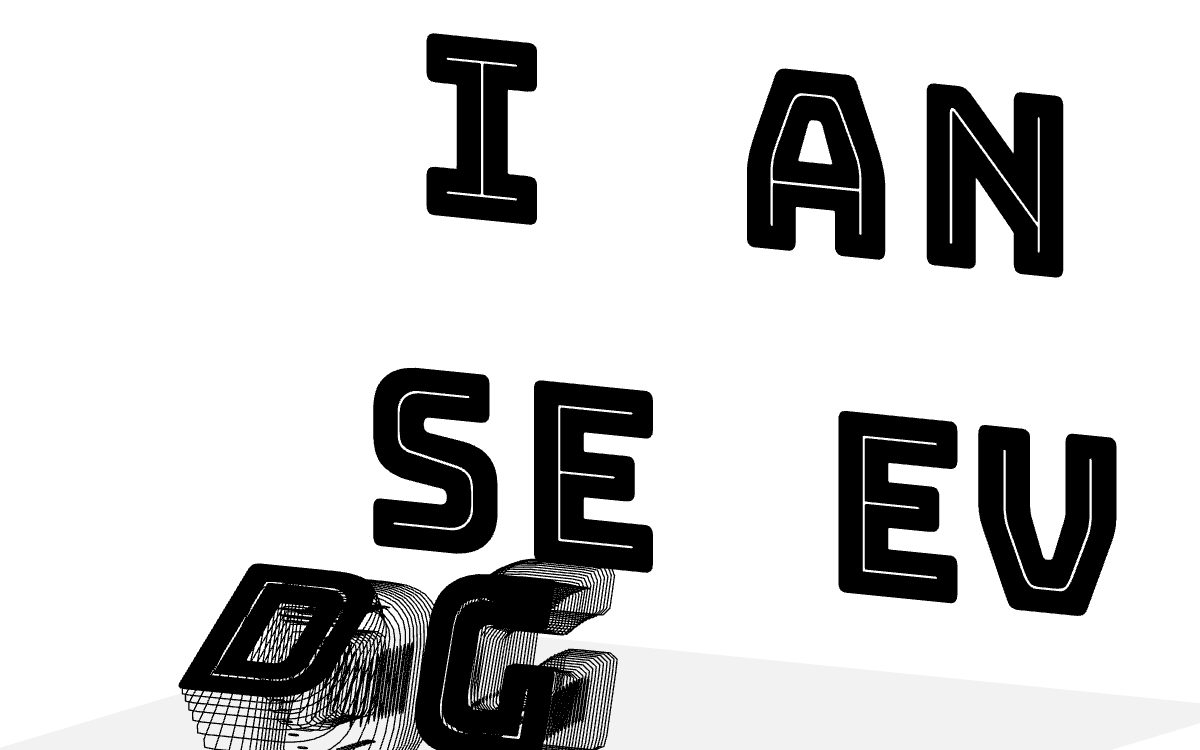
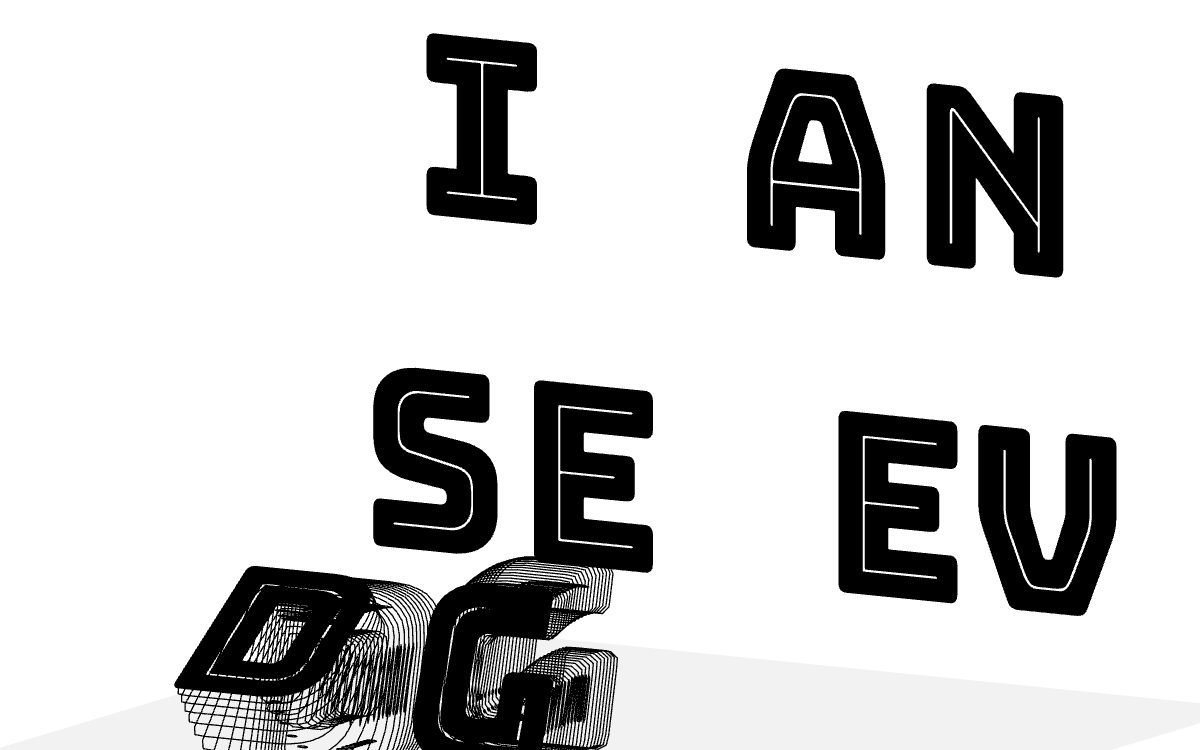
Workflow tools: Save as defaults, contact sheets, one-command ship; Slinky type fits phones

Changed region(s): [[0.1542, 0.736, 0.5242, 1.0], [0.1233, 0.8893, 0.1542, 0.92]]

diff --git a/src/posters/slinky-type.js b/src/posters/slinky-type.js
@@ -19,6 +19,8 @@ const FACE = new URLSearchParams(location.search).get('font') || 'Bungee Inline'
   try { await Promise.race([document.fonts.load(`400 100px "${FACE}"`), new Promise((r) => setTimeout(r, 2500))]); } catch (e) { /* the stand-in */ }
 }
 const FONT = `"${FACE}", Arial Black, Helvetica Neue, Helvetica, sans-serif`;
+// Defaults saved from the settings panel (Save as defaults, local dev server): src/posters/params/slinky-type.json, over the built-in ones below.
+const SAVED = await fetch(new URL('./params/slinky-type.json', import.meta.url)).then((r) => (r.ok ? r.json() : {})).catch(() => ({}));
 const shapeOf = (ch, fine) => ringShape(ch, { fine, font: FONT, weight: 400 });
 const clamp = (v, a, b) => Math.max(a, Math.min(b, v));
 const TH = -Math.PI / 2;                       // every chain runs along -z: out of the wall, toward you
@@ -33,6 +35,7 @@ export function mount(stage) {
   const shared = { ...SHARED_DEFAULTS, ...POSTER_DEFAULTS, spring: 958, gravity: 23, bounce: 0.81, inertia: 0.3 };   // Idan's tuned Slinky: the rings, the wire, the contact, gravity and friction (14 Oct 2026)
   const OWN = { coils: 20, ledge: 10, bump: 2.9, push: 9.5, pull: 1.7, pull2: 2.8 };                      // rings in a letter; how deep the ledge is; how far the first and the second bump carry the head (radii)
   const CAM = { yaw: 30, pitch: 10, zoom: 1.5, panX: 0, panY: 0 };                                    // Idan's camera (14 Oct 2026); zoom and pan are a multiplier on the fitted scene and a share of the screen
+  for (const [k, v] of Object.entries(SAVED)) { if (k in CAM) CAM[k] = v; else if (k in OWN) OWN[k] = v; else if (k in shared) shared[k] = v; }
   const DEFAULTS = { ...shared, ...OWN, ...CAM };
   const P = bindParams(shared, OWN);
   const V = createView(stage, { yaw: CAM.yaw, pitch: CAM.pitch }); V.setView('iso');
@@ -64,7 +67,7 @@ export function mount(stage) {
     for (const c of corners3()) { const q = V.project(c, r, ox0, oy0); x0 = Math.min(x0, q[0]); x1 = Math.max(x1, q[0]); y0 = Math.min(y0, q[1]); y1 = Math.max(y1, q[1]); }
     return [ox0 + W / 2 - (x0 + x1) / 2 + cam3.panX * W, oy0 + (H - 40) / 2 - (y0 + y1) / 2 + cam3.panY * H, x1 - x0, y1 - y0];
   }
-  function fit() { const r = V.rot(), [, , w, h] = origin2(r), f = Math.min(0.92 * W / (w / r.z), 0.8 * H / (h / r.z)) / (r.z / V.zoomMul) * cam3.zoom; V.zoomMul += (f - V.zoomMul) * 0.15; }
+  function fit() { const r = V.rot(), [, , w, h] = origin2(r), f = Math.min(0.92 * W / (w / r.z), 0.8 * H / (h / r.z)) / (r.z / V.zoomMul) * (W / H < 0.85 ? Math.min(cam3.zoom, 1) : cam3.zoom); V.zoomMul += (f - V.zoomMul) * 0.15; }
   function layout() {
     W = stage.W; H = stage.H;
     const portrait = W / H < 0.85, rows = portrait ? ['IDAN', 'SE', 'GEV'] : ['IDAN', 'SEGEV'], rowK = 3.7;
@@ -242,7 +245,7 @@ export function mount(stage) {
   const Ctl = (key, label, min, max, step) => ({ key, label, min, max, step });
   return {
     tune: {
-      title: 'Slinky type', values: P, defaults: DEFAULTS,
+      title: 'Slinky type', persist: true, values: P, defaults: DEFAULTS,
       groups: [
         { name: 'Scene', items: [Ctl('ledge', 'How deep the ledge is (radii, re-forms)', 1.2, 14, 0.1), Ctl('bump', 'How hard the first bump is (radii / s)', 0.5, 8, 0.1), Ctl('pull', 'How far the first bump pulls the cap ahead (radii)', 0, 4, 0.1), Ctl('pull2', 'How far the second bump pulls it (radii)', 0, 5, 0.1), Ctl('push', 'How hard the second bump is (radii / s)', 3, 18, 0.1), Ctl('coils', 'Rings in a letter (re-forms)', 4, 40, 1), Ctl('gap', 'Closest the coils get (re-forms)', 0.02, 0.3, 0.005), Ctl('wire', 'Wire thickness', 0.02, 0.2, 0.005)] },
         { name: 'Rings', items: [Ctl('lean', 'Most a ring may lean off the path (deg)', 15, 85, 1), Ctl('leanK', 'How hard that limit is held', 0.05, 3, 0.05), Ctl('square', 'Rings square to the path', 0, 2, 0.05), Ctl('spring', 'Wire stiffness', 5, 4000, 1), Ctl('inertia', 'Ring inertia', 0.1, 2, 0.05)] },

diff --git a/src/panel.js b/src/panel.js
@@ -11,9 +11,10 @@
 //   }
 //
 // Open it with ?tune, or press T. Settings persist (per poster, in this browser) while ?tune is on, and
+// A poster that sets `persist: true` also gets "Save as defaults" (local dev server: writes src/posters/params/<slug>.json).
 // "Copy settings" puts them on the clipboard as JSON to paste back into the poster's defaults.
 
-export function createPanel(tune, { toast = () => {}, onClose = () => {} } = {}) {
+export function createPanel(tune, { toast = () => {}, onClose = () => {}, slug = '' } = {}) {
   const el = document.createElement('aside');
   el.className = 'tune';
   el.setAttribute('aria-label', `${tune.title} settings`);
@@ -42,6 +43,10 @@ export function createPanel(tune, { toast = () => {}, onClose = () => {} } = {})
     const json = JSON.stringify(tune.values, null, 2);
     try { await navigator.clipboard.writeText(json); toast('Settings copied'); }
     catch (e) { window.prompt && toast('Copy blocked: see the console'); console.log(json); }
+  });
+  if (tune.persist && slug) mk('Save as defaults', async () => {                    // local dev server only: writes src/posters/params/<slug>.json, which the poster reads
+    try { const r = await fetch(`/__params/${slug}`, { method: 'POST', body: JSON.stringify(tune.values) }); toast(r.ok ? 'Saved as defaults' : 'Save needs the local dev server'); }
+    catch (e) { toast('Save needs the local dev server'); }
   });
   mk('Reset', () => { tune.reset(); sync(); toast('Reset to defaults'); });
   el.appendChild(actions);

diff --git a/src/main.js b/src/main.js
@@ -33,7 +33,7 @@ export function toast(msg, ms = 2200) {
 function syncPanel() {
   if (panel) { panel.destroy(); panel = null; }
   if (wantPanel && current && current.inst && current.inst.tune) {
-    panel = createPanel(current.inst.tune, { toast, onClose: () => { wantPanel = false; panel = null; } });
+    panel = createPanel(current.inst.tune, { toast, slug: current.poster.slug, onClose: () => { wantPanel = false; panel = null; } });
   }
 }
 function togglePanel() {

diff --git a/tools/dev.py b/tools/dev.py
@@ -6,13 +6,30 @@
 Python's plain `http.server` sends no cache headers, so browsers reuse old copies of the ES modules
 (src/*.js) and a page can end up running a mix of old and new files. This sends `Cache-Control: no-store`.
 """
-import os, sys
+import json, os, re, sys
 from functools import partial
 from http.server import SimpleHTTPRequestHandler, ThreadingHTTPServer
 
 ROOT = os.path.join(os.path.dirname(os.path.abspath(__file__)), '..')
 
 class H(SimpleHTTPRequestHandler):
+    # The settings panel's "Save as defaults": POST /__params/<slug> with the poster's settings as JSON lands in src/posters/params/<slug>.json (local requests only).
+    def do_POST(self):
+        m = re.fullmatch(r'/__params/([a-z0-9-]+)', self.path)
+        local = self.client_address[0] in ('127.0.0.1', '::1')
+        try:
+            n = int(self.headers.get('Content-Length', '0'))
+            if not (m and local) or n <= 0 or n > 20000: raise ValueError('refused')
+            data = json.loads(self.rfile.read(n))
+            if not isinstance(data, dict) or not all(isinstance(v, (int, float, str, bool)) for v in data.values()): raise ValueError('not settings')
+            path = os.path.join(ROOT, 'src', 'posters', 'params', m.group(1) + '.json')
+            os.makedirs(os.path.dirname(path), exist_ok=True)
+            with open(path, 'w') as f: json.dump(data, f, indent=2); f.write('\n')
+            self.send_response(200)
+        except Exception:
+            self.send_response(400)
+        self.send_header('Content-Length', '0'); self.end_headers()
+
     def end_headers(self):
         self.send_header('Cache-Control', 'no-store')
         super().end_headers()
